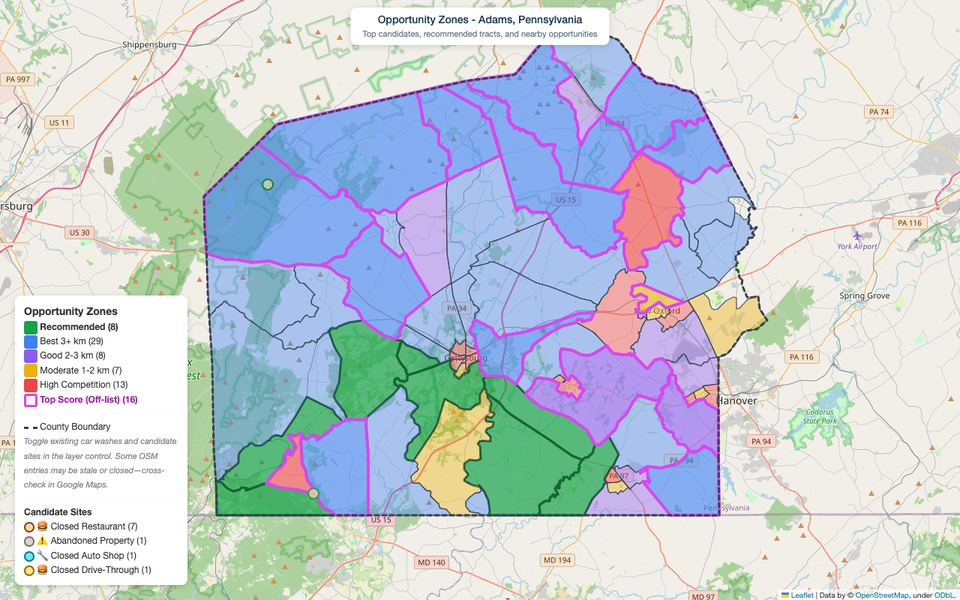
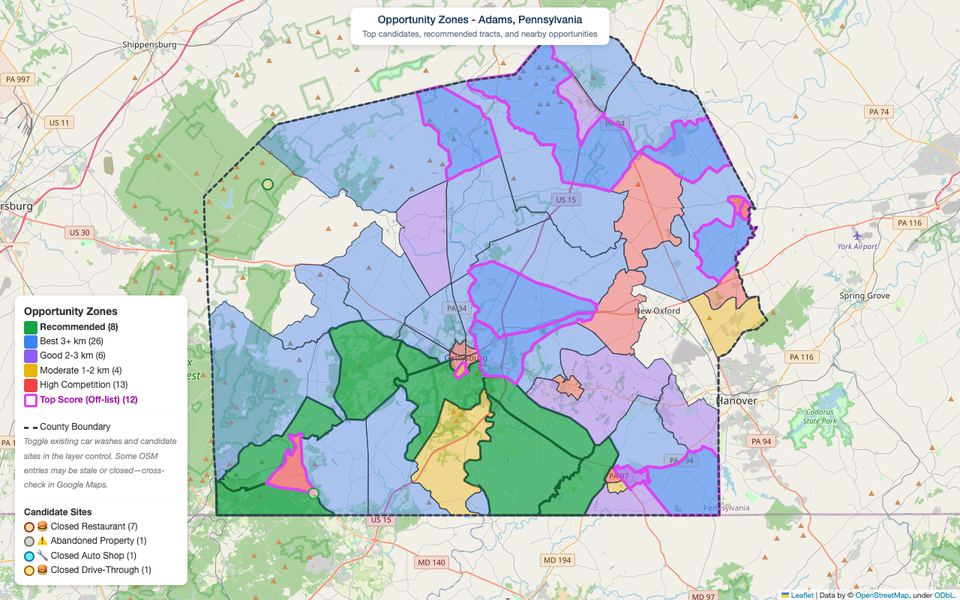
Refresh demo numbers and maps for the latest Adams County run

diff --git a/index.html b/index.html
@@ -1509,7 +1509,7 @@
                 <button type="button" class="demo-close" aria-label="Close">&times;</button>
             </div>
             <img src="demo/01-location-ranking.jpg" alt="Map of Adams County, PA block groups shaded by opportunity zone, from recommended to high competition" loading="lazy" width="960" height="600">
-            <div class="demo-stats"><div><strong>68</strong><span>block groups ranked</span></div><div><strong>72</strong><span>top site score (0-100)</span></div><div><strong>36</strong><span>block groups more than 3 km from a competitor</span></div><div><strong>6</strong><span>factors in every score: traffic, income, density, vehicles, growth, competition</span></div></div>
+            <div class="demo-stats"><div><strong>68</strong><span>block groups ranked</span></div><div><strong>70</strong><span>top site score (0-100)</span></div><div><strong>36</strong><span>block groups more than 3 km from a competitor</span></div><div><strong>6</strong><span>factors in every score: traffic, income, density, vehicles, growth, competition</span></div></div>
             <p class="demo-dialog-note">Sample analysis of Adams County, Pennsylvania.</p>
         </dialog>
         <dialog class="demo-dialog" id="demo-02" aria-labelledby="demo-02-title">
@@ -1536,7 +1536,7 @@
                 <button type="button" class="demo-close" aria-label="Close">&times;</button>
             </div>
             <div class="slider" role="region" aria-roledescription="carousel" aria-label="Revenue projection charts" tabindex="0"><div class="slider-track"><img src="demo/04-revenue-1.jpg" alt="Annual revenue distribution across block groups, with median and break-even" loading="lazy" width="1200" height="750"><img src="demo/04-revenue-2.jpg" alt="Annual revenue against site score, colored by capacity utilization" loading="lazy" width="1200" height="750"><img src="demo/04-revenue-3.jpg" alt="Average daily customers by scenario against break-even" loading="lazy" width="1200" height="750"><img src="demo/04-revenue-4.jpg" alt="Profit margin distribution, profitable and unprofitable block groups" loading="lazy" width="1200" height="750"></div><div class="slider-nav"><button type="button" class="slider-prev" aria-label="Previous chart">&#8249;</button><div class="slider-dots"><button type="button" class="slider-dot" aria-label="Chart 1"></button><button type="button" class="slider-dot" aria-label="Chart 2"></button><button type="button" class="slider-dot" aria-label="Chart 3"></button><button type="button" class="slider-dot" aria-label="Chart 4"></button></div><span class="slider-count"></span><button type="button" class="slider-next" aria-label="Next chart">&#8250;</button></div></div>
-            <div class="demo-stats"><div><strong>$120K</strong><span>worst case, strongest block group</span></div><div><strong>$554K</strong><span>expected, strongest block group</span></div><div><strong>$1.36M</strong><span>best case, strongest block group</span></div><div><strong>42 of 68</strong><span>block groups above break-even</span></div></div>
+            <div class="demo-stats"><div><strong>$120K</strong><span>worst case, strongest block group</span></div><div><strong>$549K</strong><span>expected, strongest block group</span></div><div><strong>$1.36M</strong><span>best case, strongest block group</span></div><div><strong>42 of 68</strong><span>block groups above break-even</span></div></div>
             <p class="demo-dialog-note">Sample analysis of Adams County, Pennsylvania.</p>
         </dialog>
         <dialog class="demo-dialog" id="demo-05" aria-labelledby="demo-05-title">
@@ -1545,7 +1545,7 @@
                 <button type="button" class="demo-close" aria-label="Close">&times;</button>
             </div>
             <img src="demo/05-risk-assessment.jpg" alt="Map of Adams County, PA block groups ranked by simulated probability of loss" loading="lazy" width="960" height="600">
-            <div class="demo-stats"><div><strong>5,000</strong><span>simulations per block group</span></div><div><strong>4%</strong><span>lowest chance of a loss</span></div><div><strong>38%</strong><span>median chance of a loss</span></div><div><strong>20 of 68</strong><span>block groups at 20% or lower</span></div></div>
+            <div class="demo-stats"><div><strong>5,000</strong><span>simulations per block group</span></div><div><strong>3%</strong><span>lowest chance of a loss</span></div><div><strong>38%</strong><span>median chance of a loss</span></div><div><strong>20 of 68</strong><span>block groups at 20% or lower</span></div></div>
             <p class="demo-dialog-note">Sample analysis of Adams County, Pennsylvania.</p>
         </dialog>
         <dialog class="demo-dialog" id="demo-06" aria-labelledby="demo-06-title">
